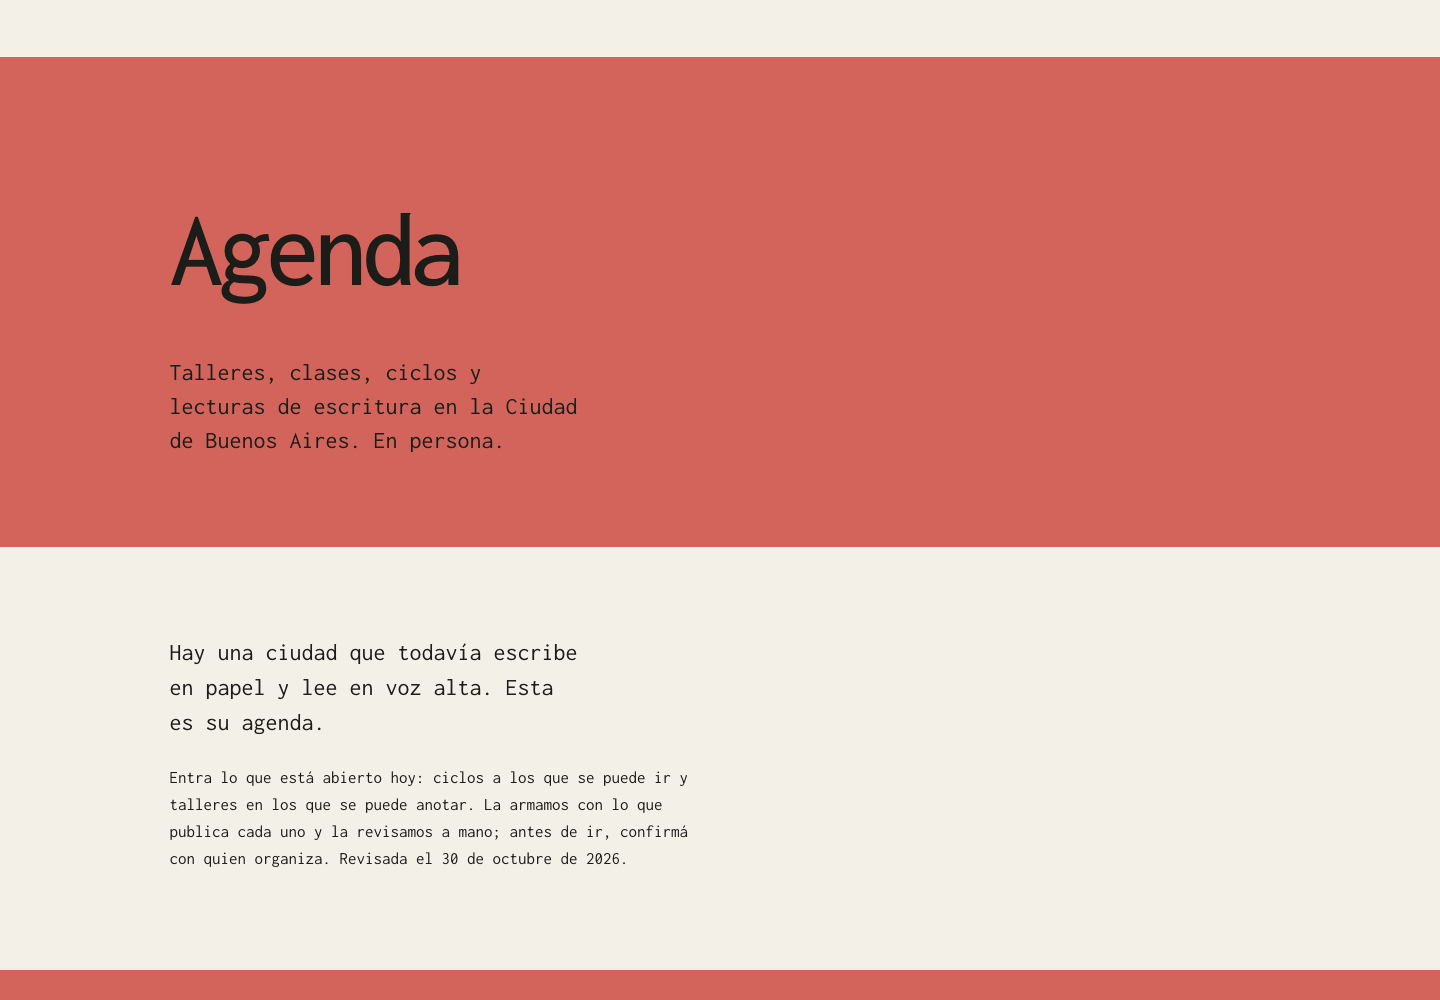
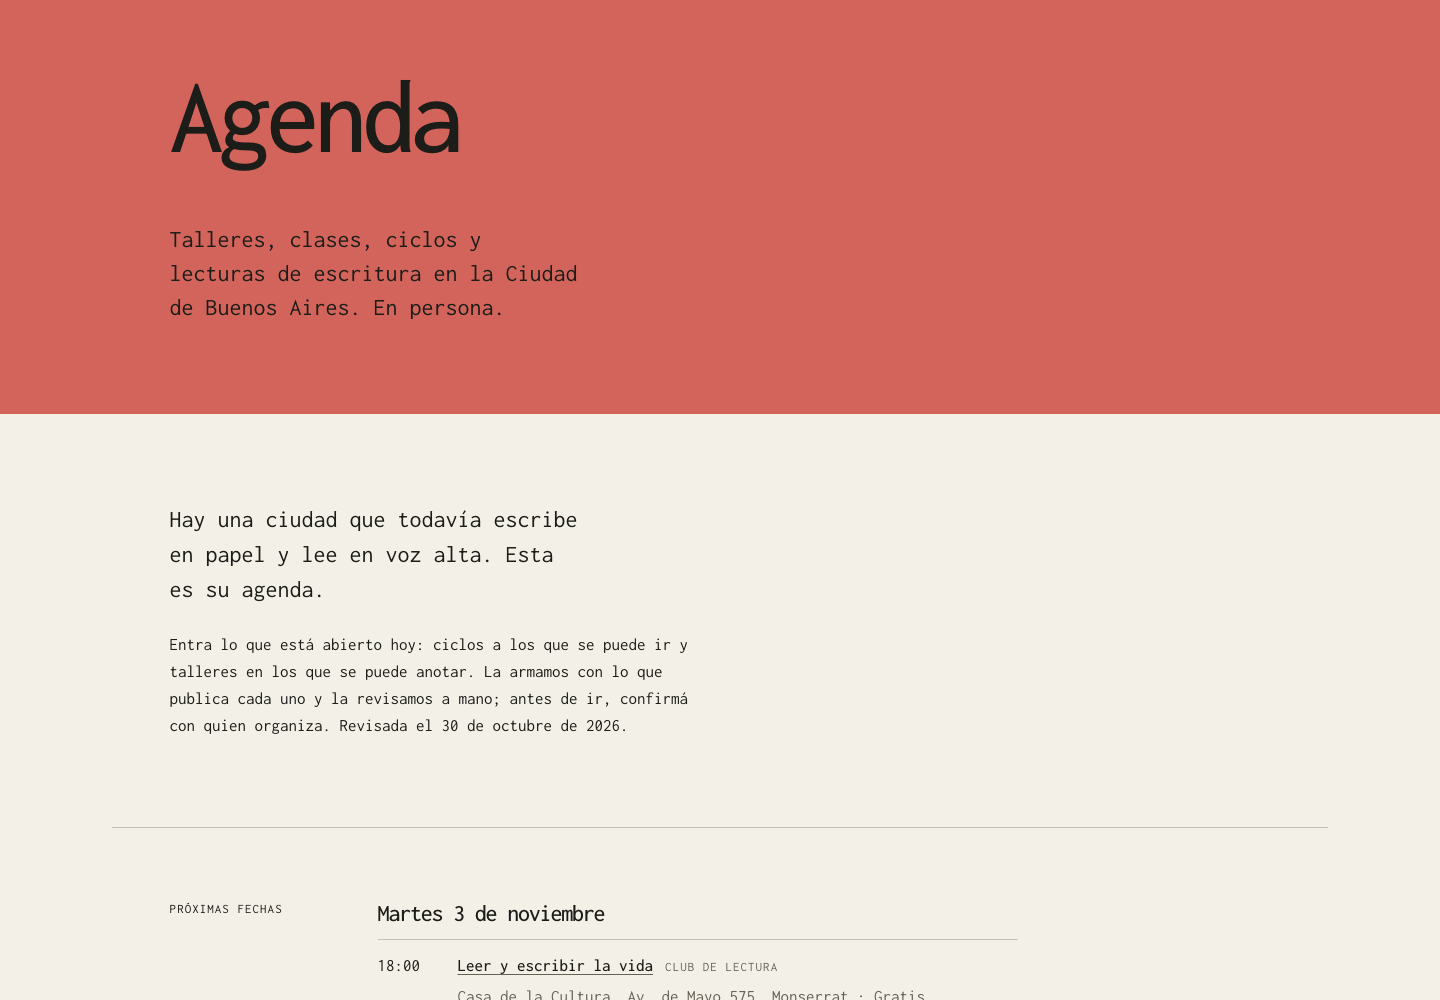
Web Analytics y Speed Insights de Vercel en las dos páginas
Pedido de Joaquín del 30-oct: medir visitas y velocidad. src/vercel.ts
inyecta @vercel/analytics y @vercel/speed-insights desde los dos entries del
navegador (no en el pre-render); sin cookies ni datos personales. Los scripts
salen de /_vercel/ en el mismo origen y existen cuando cada producto está
habilitado en el proyecto de Vercel. El test los sirve vacíos y comprueba que
las dos páginas los piden; ningún otro pedido externo.

diff --git a/src/agenda-main.tsx b/src/agenda-main.tsx
@@ -2,9 +2,11 @@ import { StrictMode } from "react";
 import { createRoot, hydrateRoot } from "react-dom/client";
 import { AgendaPage } from "./features/agenda/AgendaPage";
 import "./styles.css";
+import { medir } from "./vercel";
 
 const root = document.getElementById("root")!;
 const page = <StrictMode><AgendaPage /></StrictMode>;
 // The build pre-renders the agenda into #root (scripts/prerender.mjs); the dev server serves it empty.
 if (root.hasChildNodes()) hydrateRoot(root, page);
 else createRoot(root).render(page);
+medir();

diff --git a/src/vercel.ts b/src/vercel.ts
@@ -1,0 +1,10 @@
+import { inject } from "@vercel/analytics";
+import { injectSpeedInsights } from "@vercel/speed-insights";
+
+/** Vercel Web Analytics and Speed Insights (Joaquín, 30-oct-2026): visits per page and Core Web Vitals, without cookies or personal data.
+ * Browser only. Both scripts come from /_vercel/ on the same origin and exist once each product is enabled in the Vercel project;
+ * in development they only log to the console. */
+export function medir() {
+  inject();
+  injectSpeedInsights();
+}

diff --git a/src/main.tsx b/src/main.tsx
@@ -2,9 +2,11 @@ import { StrictMode } from "react";
 import { createRoot, hydrateRoot } from "react-dom/client";
 import App from "./App";
 import "./styles.css";
+import { medir } from "./vercel";
 
 const root = document.getElementById("root")!;
 const app = <StrictMode><App /></StrictMode>;
 // The build pre-renders the page into #root (scripts/prerender.mjs); the dev server serves it empty.
 if (root.hasChildNodes()) hydrateRoot(root, app);
 else createRoot(root).render(app);
+medir();

diff --git a/AGENTS.md b/AGENTS.md
@@ -2,6 +2,7 @@
 
 - La web es presencia (Joaquín, 27-sep-2026) con dos agregados del 27-oct-2026: portada roja con la firma y un menú de cuatro palabras (Cafés, Suscripción, Cartas: anclas; Agenda: su página; sin barra fija), el manifiesto de la Oficina, los locales donde se venden los cuentos (`site.locales`, con mapa), la suscripción mensual a domicilio (dos líneas, botón “Suscribirme” que despliega el formulario de `src/features/suscripcion/` en un `details` nativo) y la invitación a escribir con la dirección postal. Sin mail público, redes ni chat. No mostrar sobres ni cuentos como producto; no agregar fechas, locales ni encuentros que no existan; el único precio de la web es el de la suscripción (`site.suscripcion.precioMensual`, decidido por Joaquín) (un local entra en `site.locales` solo con el acuerdo hecho; la dirección de calle solo confirmada). Regla: lo digital sirve para encontrar a la Oficina y para pedir la suscripción; todo lo demás pasa en papel. Un encuentro futuro se anuncia con una línea, como un afiche, sin inscripción.
 - Desde el 30-oct-2026 (Joaquín aprobó la agenda, decisiones fila Identidad digital) hay una segunda página, `/agenda/` (`agenda/index.html`, `src/agenda-main.tsx`, `src/features/agenda/`): eventos, talleres y clases de escritura y lectura presenciales de la Ciudad, pagos o gratis. Sus datos son `src/content/agenda.ts`, generado por `scripts/build-agenda.mjs` desde `../agenda/data/` (solo `decision` = sí); no editarlo a mano. Sin montos (gratis, pago, a la gorra), sin domicilios particulares (de quien da clases en su casa, solo el barrio), sin rankings, sin lechuzas en su mapa (la lechuza marca dónde se venden los cuentos). Solo fechas confirmadas; lo que no tiene fecha va por barrio con su frecuencia. Solo lo que está abierto hoy (Joaquín, 30-oct-2026): ciclos a los que se puede ir y talleres en los que se puede anotar; lo que tiene la inscripción cerrada queda en los datos como `cerrado` hasta que reabra. Cada actividad ocupa dos líneas: el nombre, que es el enlace público (en otra pestaña) y lleva el tipo como etiqueta cuando el nombre no lo dice, y una línea gris con cuándo, dónde, cómo se entra y quién la da. Sin filas de “Más información”.
+- La única medición es Web Analytics y Speed Insights de Vercel (`src/vercel.ts`, 30-oct-2026, pedido de Joaquín): visitas por página y Core Web Vitals, sin cookies, sin datos personales y sin otros rastreadores ni scripts de terceros. Se habilitan en el panel de Vercel; hasta entonces sus scripts responden 404 y no pasa nada.
 - El formulario nunca simula éxito: muestra el error del servicio y ofrece la carta. Manda a `VITE_FORM_ENDPOINT` (Formspree por defecto); sin JavaScript hace un POST común. Solo acepta códigos postales de la Ciudad de Buenos Aires por ahora. El pago es el link de suscripción de Mercado Pago (`VITE_SUBSCRIPTION_URL`) que aparece después del envío. No agregar campos que no hagan falta para mandar el sobre y responder.
 - Antes de cambiar la interfaz, leer `DESIGN_SYSTEM.md`. Reutilizar los componentes de `src/design-system/index.tsx` y los tokens de `src/design-system/tokens.css`.
 - La web usa tres colores (papel, tinta, rojo de la firma) y una sola familia en pantalla (Inconsolata). Cormorant Garamond es la voz de los cuentos y solo aparece cuando habla un cuento (muestrario, piezas). No volver a traer otros tokens a la web sin decisión. Sin cursor personalizado ni animaciones. Una sola ilustración: la lechuza dibujada a pluma por Joaquín (27-oct-2026; original en `design-system/references/10-lechuza.jpg`, recorte sin fondo en `src/assets/lechuza.webp`), que marca cada local en el mapa y en la lista; siempre en tinta, sin colorear, invertir ni usarla de fondo. El sello sigue siendo la “L.” de la firma: favicon, ícono (tinta sobre rojo, generados por `scripts/render-share-card.mjs` con la tipografía de la página) y estampilla del sobre. Los dos búhos dibujados el 28-sep-2026 quedaron descartados; no agregar otras ilustraciones sin decisión.

diff --git a/README.md b/README.md
@@ -10,6 +10,7 @@ Versión del 27-oct-2026: suma las secciones Dónde encontrarlos y Un cuento por
 - Agenda (`/agenda/`, 30-oct-2026, pedido de Joaquín): página propia con la portada roja (enlace a la principal, menú Fechas, Barrios y Cartas, título "Agenda"), una línea de presentación y dos bloques: "Próximas fechas", las fechas confirmadas de las próximas dos semanas agrupadas por día (en el navegador arranca desde hoy en Buenos Aires; pre-renderizada, desde el día de la revisión), y "Por barrio", el mismo mapa de la ciudad sin lechuzas, con los barrios que tienen actividades en rojo y como enlaces a su grupo de la lista (funciona con teclado y sin JavaScript), debajo del mapa un índice de barrios con la cantidad de actividades (la entrada desde el celular), y al lado todas las actividades de cada barrio en dos líneas: el nombre, que es el enlace al sitio o la cuenta pública (en otra pestaña), con el tipo como etiqueta, y cuándo, dónde, cómo se entra (sin montos) y quién la da. Solo entra lo que está abierto hoy: ciclos a los que se puede ir y talleres en los que se puede anotar. Cierra con la invitación a sumar una actividad por carta. Los datos están en [src/content/agenda.ts](src/content/agenda.ts), generado por `scripts/build-agenda.mjs` desde `../agenda/data/` (solo las filas con `decision` = sí): no se edita a mano.
 - Sin mail público ni página de privacidad; el único dato que entra es el pedido de suscripción, que va al servicio de formularios y no se guarda en la web. Sin sobres ni cuentos a la vista; el único precio es el de la suscripción. Una sola familia en pantalla (Inconsolata).
 - Metadatos, tarjeta para compartir, favicon, robots y sitemap. Las páginas se pre-renderizan en el build: `dist/index.html` trae el texto completo y datos estructurados de tipo Organization (nombre, ciudad, descripción, imágenes y la dirección postal cuando existe); `dist/agenda/index.html`, el texto completo y un Event por fecha confirmada. React solo hidrata. El sitemap lista las dos. `vercel.json` redirige las rutas retiradas `/condiciones/` y `/privacidad/` a `/`.
+- Medición (30-oct-2026, pedido de Joaquín): Web Analytics y Speed Insights de Vercel, inyectados desde [src/vercel.ts](src/vercel.ts) en las dos páginas, sin cookies ni datos personales. Los scripts salen de `/_vercel/` en el mismo origen y existen cuando cada producto está habilitado en el proyecto de Vercel (pestañas Analytics y Speed Insights del panel). El test del navegador los sirve vacíos y comprueba que las dos páginas los piden.
 
 ## Contenido y conexiones
 
